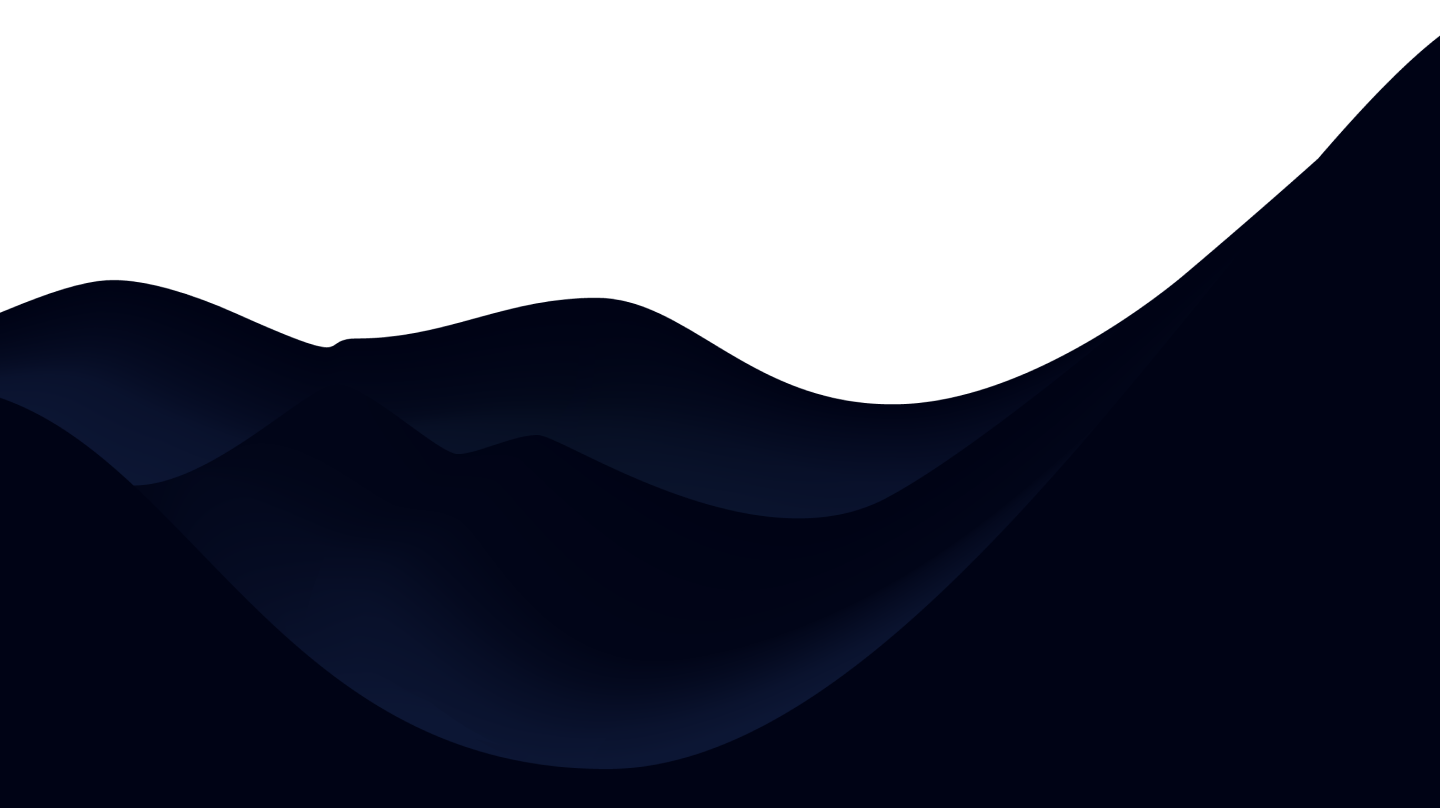
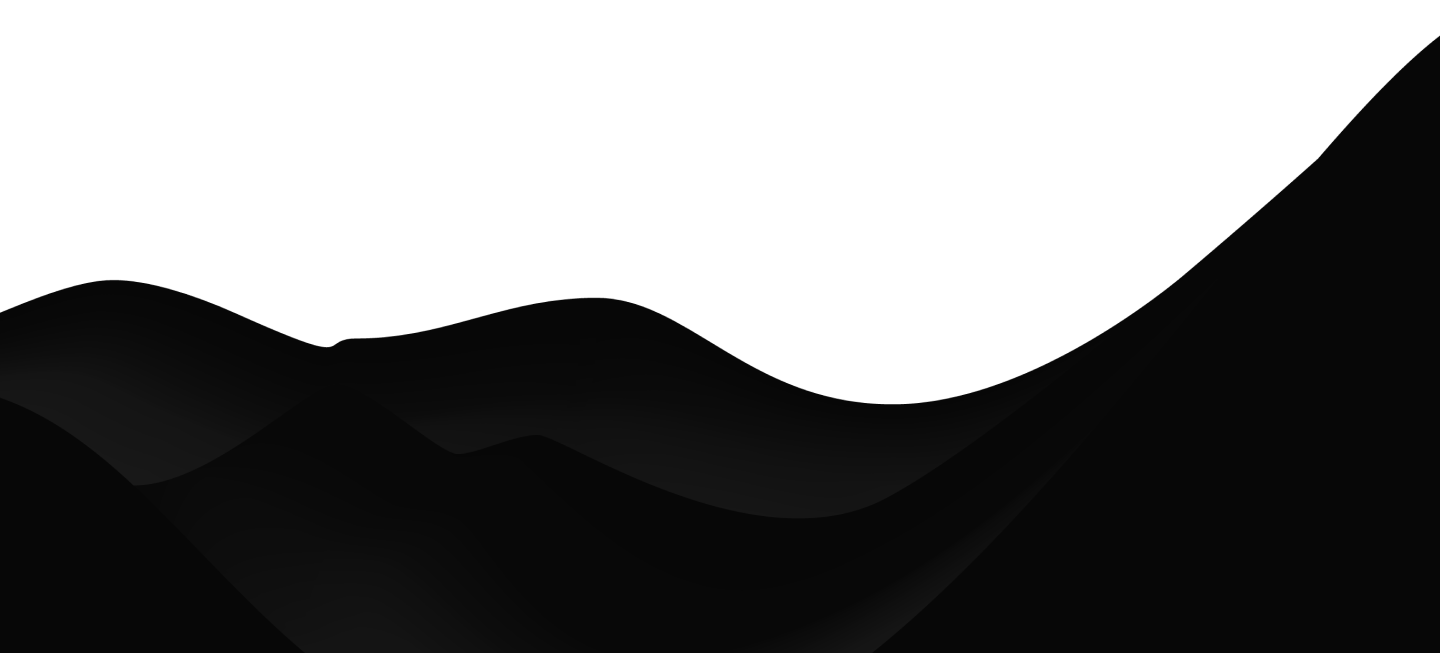
fixes

diff --git a/src/styles/_global.scss b/src/styles/_global.scss
@@ -13,7 +13,6 @@ body {
 
   .dark {
     color: white;
-    background-image: url('../assets/img/home-dark-bg.png');
   }
 
   .light {
@@ -163,6 +162,37 @@ p {
 
   .ant-tooltip-arrow-content {
     background-color: $black !important;
+  }
+}
+
+.dark {
+  transition: all 0.4s;
+
+  &.page-wrapper {
+    background-color: $black;
+
+    &--home,
+    &--about {
+      background-image: url('../assets/img/home-dark-bg.png'), url('../assets/img/home-dark-bg-bottom.png');
+
+      @include b('tablet') {
+        background-image: url('../assets/img/home-dark-bg.png');
+      }
+    }
+
+    &--simplified {
+      background-image: none;
+
+      @include b('mobile') {
+        background-image: url('../assets/img/home-dark-bg.png');
+      }
+    }
+
+    &--staking {
+      background-position: top center;
+      background-size: cover;
+      background-blend-mode: unset;
+    }
   }
 }
 
